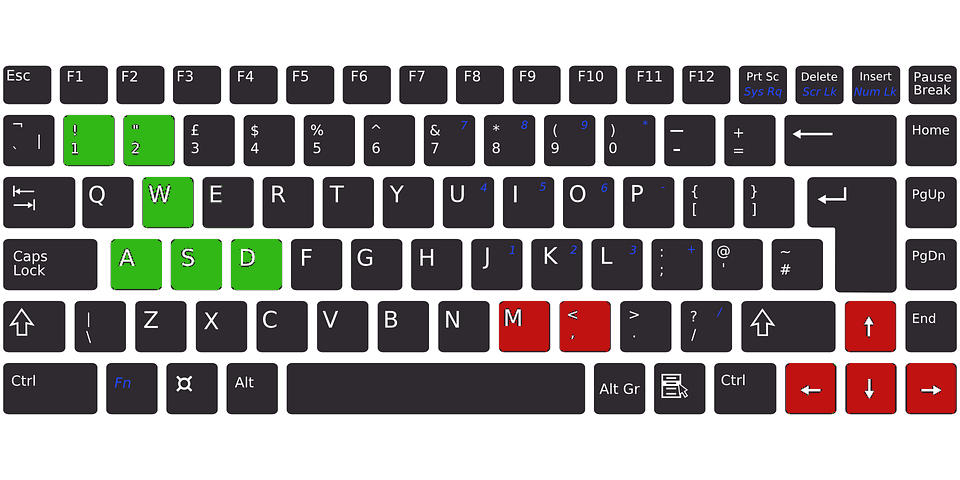
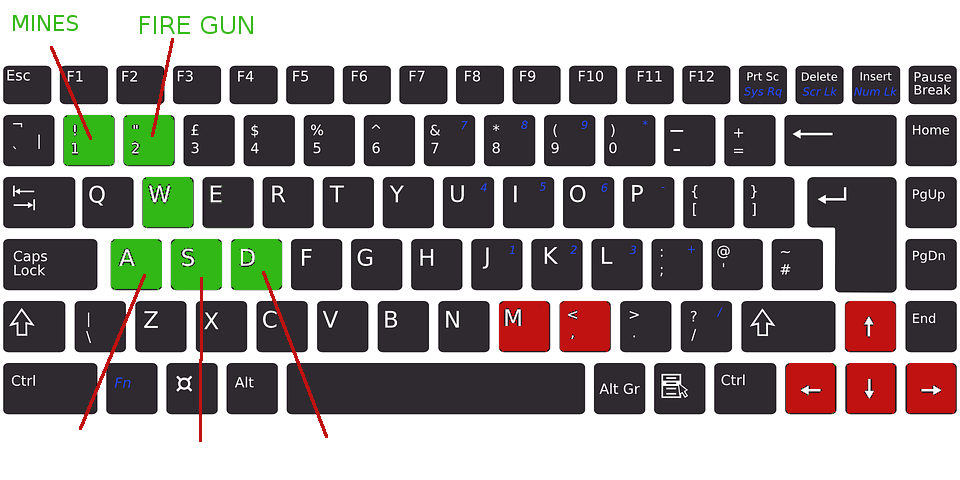
Endgame message added. Improved the intro screen. Finishing touches on the UI such as focusing the start button after the intro.

diff --git a/renderer.js b/renderer.js
@@ -8,7 +8,7 @@ function Renderer(dataModel) {
     this.counter = 0
 
     this.countdown = null
-    this.setCountdown=100;
+    this.setCountdown = 100;
 
     this.xplTrigger = false
     this.xplXCoord = 0
@@ -114,7 +114,7 @@ Renderer.prototype.renderHTML = function () { // !!!! Adapt this renderer to the
                 case "m":
                     return "<div class=\"square \">m</div>";
                 case "-":
-                return "<div class=\"square obstacle\">-</div>";
+                    return "<div class=\"square obstacle\">-</div>";
 
             }
 
@@ -146,39 +146,110 @@ Renderer.prototype.renderCanvas = function () {
 
         this.renderBackground();
         this.renderData();
-        
-        this.explosions.forEach(function(explosion){
+
+        this.explosions.forEach(function (explosion) {
             this.renderExplosion(explosion.x, explosion.y);
         }.bind(this))
 
-        // if (this.xplTrigger) {
-        // this.renderExplosion(this.xplXCoord, this.xplYCoord);
-        // }
-        this.countdown = this.setCountdown - Math.floor(this.counter/60)
-        document.querySelector('.timer').innerHTML= "   " + this.countdown;
+        if (this.xplTrigger) {
+            this.renderExplosion(this.xplXCoord, this.xplYCoord);
+        }
+
+        this.countdown = this.setCountdown - Math.floor(this.counter / 60)
+        document.querySelector('.timer').innerHTML = "   " + this.countdown;
         this.counter++;
-        if (this.counter > this.setCountdown*game.fps) clearInterval(this.intervalID);
+
+        if (this.countdown === 0) { this.endMessage() };
+
+        if (this.counter > this.setCountdown * game.fps * 1.1) clearInterval(this.intervalID);
+
 
     }.bind(this), 1000 / game.fps)
 
-    // setTimeout(function() {
-
-    // if (playingField.rovers[0].score > playingField.rovers[1].score) {
-    //     // winner =playingField.rovers[0].name;   
-    //     document.querySelector('#overlay div').innerHTML = `${Rover-label} Wins!!`
-    //     document.querySelector('#overlay').style.visibility = "visible"
-    // } else if (playingField.rovers[0].score < playingField.rovers[1].score){
-    //     document.querySelector('#overlay div').innerHTML = `${Rover2-label} is Victorious!!`
-    //     document.querySelector('#overlay').style.visibility = "visible"
-    // } else {
-    //     document.querySelector('#overlay div').innerHTML = `It's a Tie!!`
-    //     document.querySelector('#overlay').style.visibility = "visible"
-    // }
-        
-    // }.bind(this), 4500);
-    
-    
 }
+
+Renderer.prototype.endMessage = function() {
+    debugger
+    var winner;
+    if (playingField.rovers[0].score > playingField.rovers[1].score) {
+        winner = document.querySelector('.Rover-label').innerHTML;
+        this.ctx.font = '80px Monoton';
+        this.ctx.strokeStyle = 'green';
+        this.ctx.fillStyle = 'yellow';
+        this.ctx.lineWidth = 20;
+        this.ctx.textAlign = 'center';
+        this.ctx.strokeText(
+            `${winner} is victorious!!`,
+            this.canvas.width / 2,
+            this.canvas.height / 2,
+        );
+        this.ctx.fillText(
+            `${winner} is victorious!!`,
+            this.canvas.width / 2,
+            this.canvas.height / 2,
+        );
+    } else if (playingField.rovers[0].score < playingField.rovers[1].score) {
+        winner = document.querySelector('.Rover2-label').innerHTML;
+        this.ctx.font = '80px Monoton';
+        this.ctx.strokeStyle = 'green';
+        this.ctx.fillStyle = 'yellow';
+        this.ctx.lineWidth = 20;
+        this.ctx.textAlign = 'center';
+        this.ctx.strokeText(
+            `${winner} wins!!`,
+            this.canvas.width / 2,
+            this.canvas.height / 2,
+        );
+        this.ctx.fillText(
+            `${winner} wins!!`,
+            this.canvas.width / 2,
+            this.canvas.height / 2,
+        );
+    } else {
+        document.querySelector('#overlay div').innerHTML = `It's a Tie!!`
+        this.ctx.font = '80px Monoton';
+        this.ctx.strokeStyle = 'green';
+        this.ctx.fillStyle = 'yellow';
+        this.ctx.lineWidth = 60;
+        this.ctx.textAlign = 'center';
+        this.ctx.strokeText(
+            `TIE!`,
+            this.canvas.width / 2,
+            this.canvas.height / 2,
+        );
+        this.ctx.fillText(
+            `TIE!`,
+            this.canvas.width / 2,
+            this.canvas.height / 2,
+        );
+    }
+}
+
+// function Winner(id, winner) {
+//     const canvas = document.getElementById(id);
+//     const ctx = canvas.getContext('2d');
+//     ctx.font = '80px Sigmar One';
+//     ctx.strokeStyle = 'red';
+//     ctx.fillStyle = 'yellow';
+//     ctx.lineWidth = 60;
+//     ctx.textAlign = 'center';
+//     ctx.strokeText(
+//         `PLAYERS ${winner} WINS`,
+//         canvas.width / 2,
+//         canvas.height / 2,
+//     );
+//     ctx.fillText(
+//         `PLAYERS ${winner} WINS`,
+//         canvas.width / 2,
+//         canvas.height / 2,
+//     );
+// }
+
+
+
+
+
+
 
 Renderer.prototype.renderBackground = function () {
 

diff --git a/index.html b/index.html
@@ -71,9 +71,9 @@
 
   <div id="overlay">
     <div>
-      <p style=color:red>Controls: Player1-> Green Player2-> Red</p>
-      <img src="images/keyboard.png" alt="" >
-      <p>Click to continue</p>
+      <p>Controls: Player1 - Green       <span style="color:red">Player2 - Red</span></p>
+      <img src="images/keyboardTemp.png" alt="" >
+      <p>Click twice to continue</p>
     </div>
   </div>
 

diff --git a/index.js b/index.js
@@ -21,5 +21,7 @@ window.onload = function () {
     document.querySelector('#overlay div').onclick = function () {
         el = document.getElementById("overlay");
         el.style.visibility = (el.style.visibility === "visible") ? "hidden" : "visible";
+        document.querySelector('#start-button').focus();
+
     }
 }
